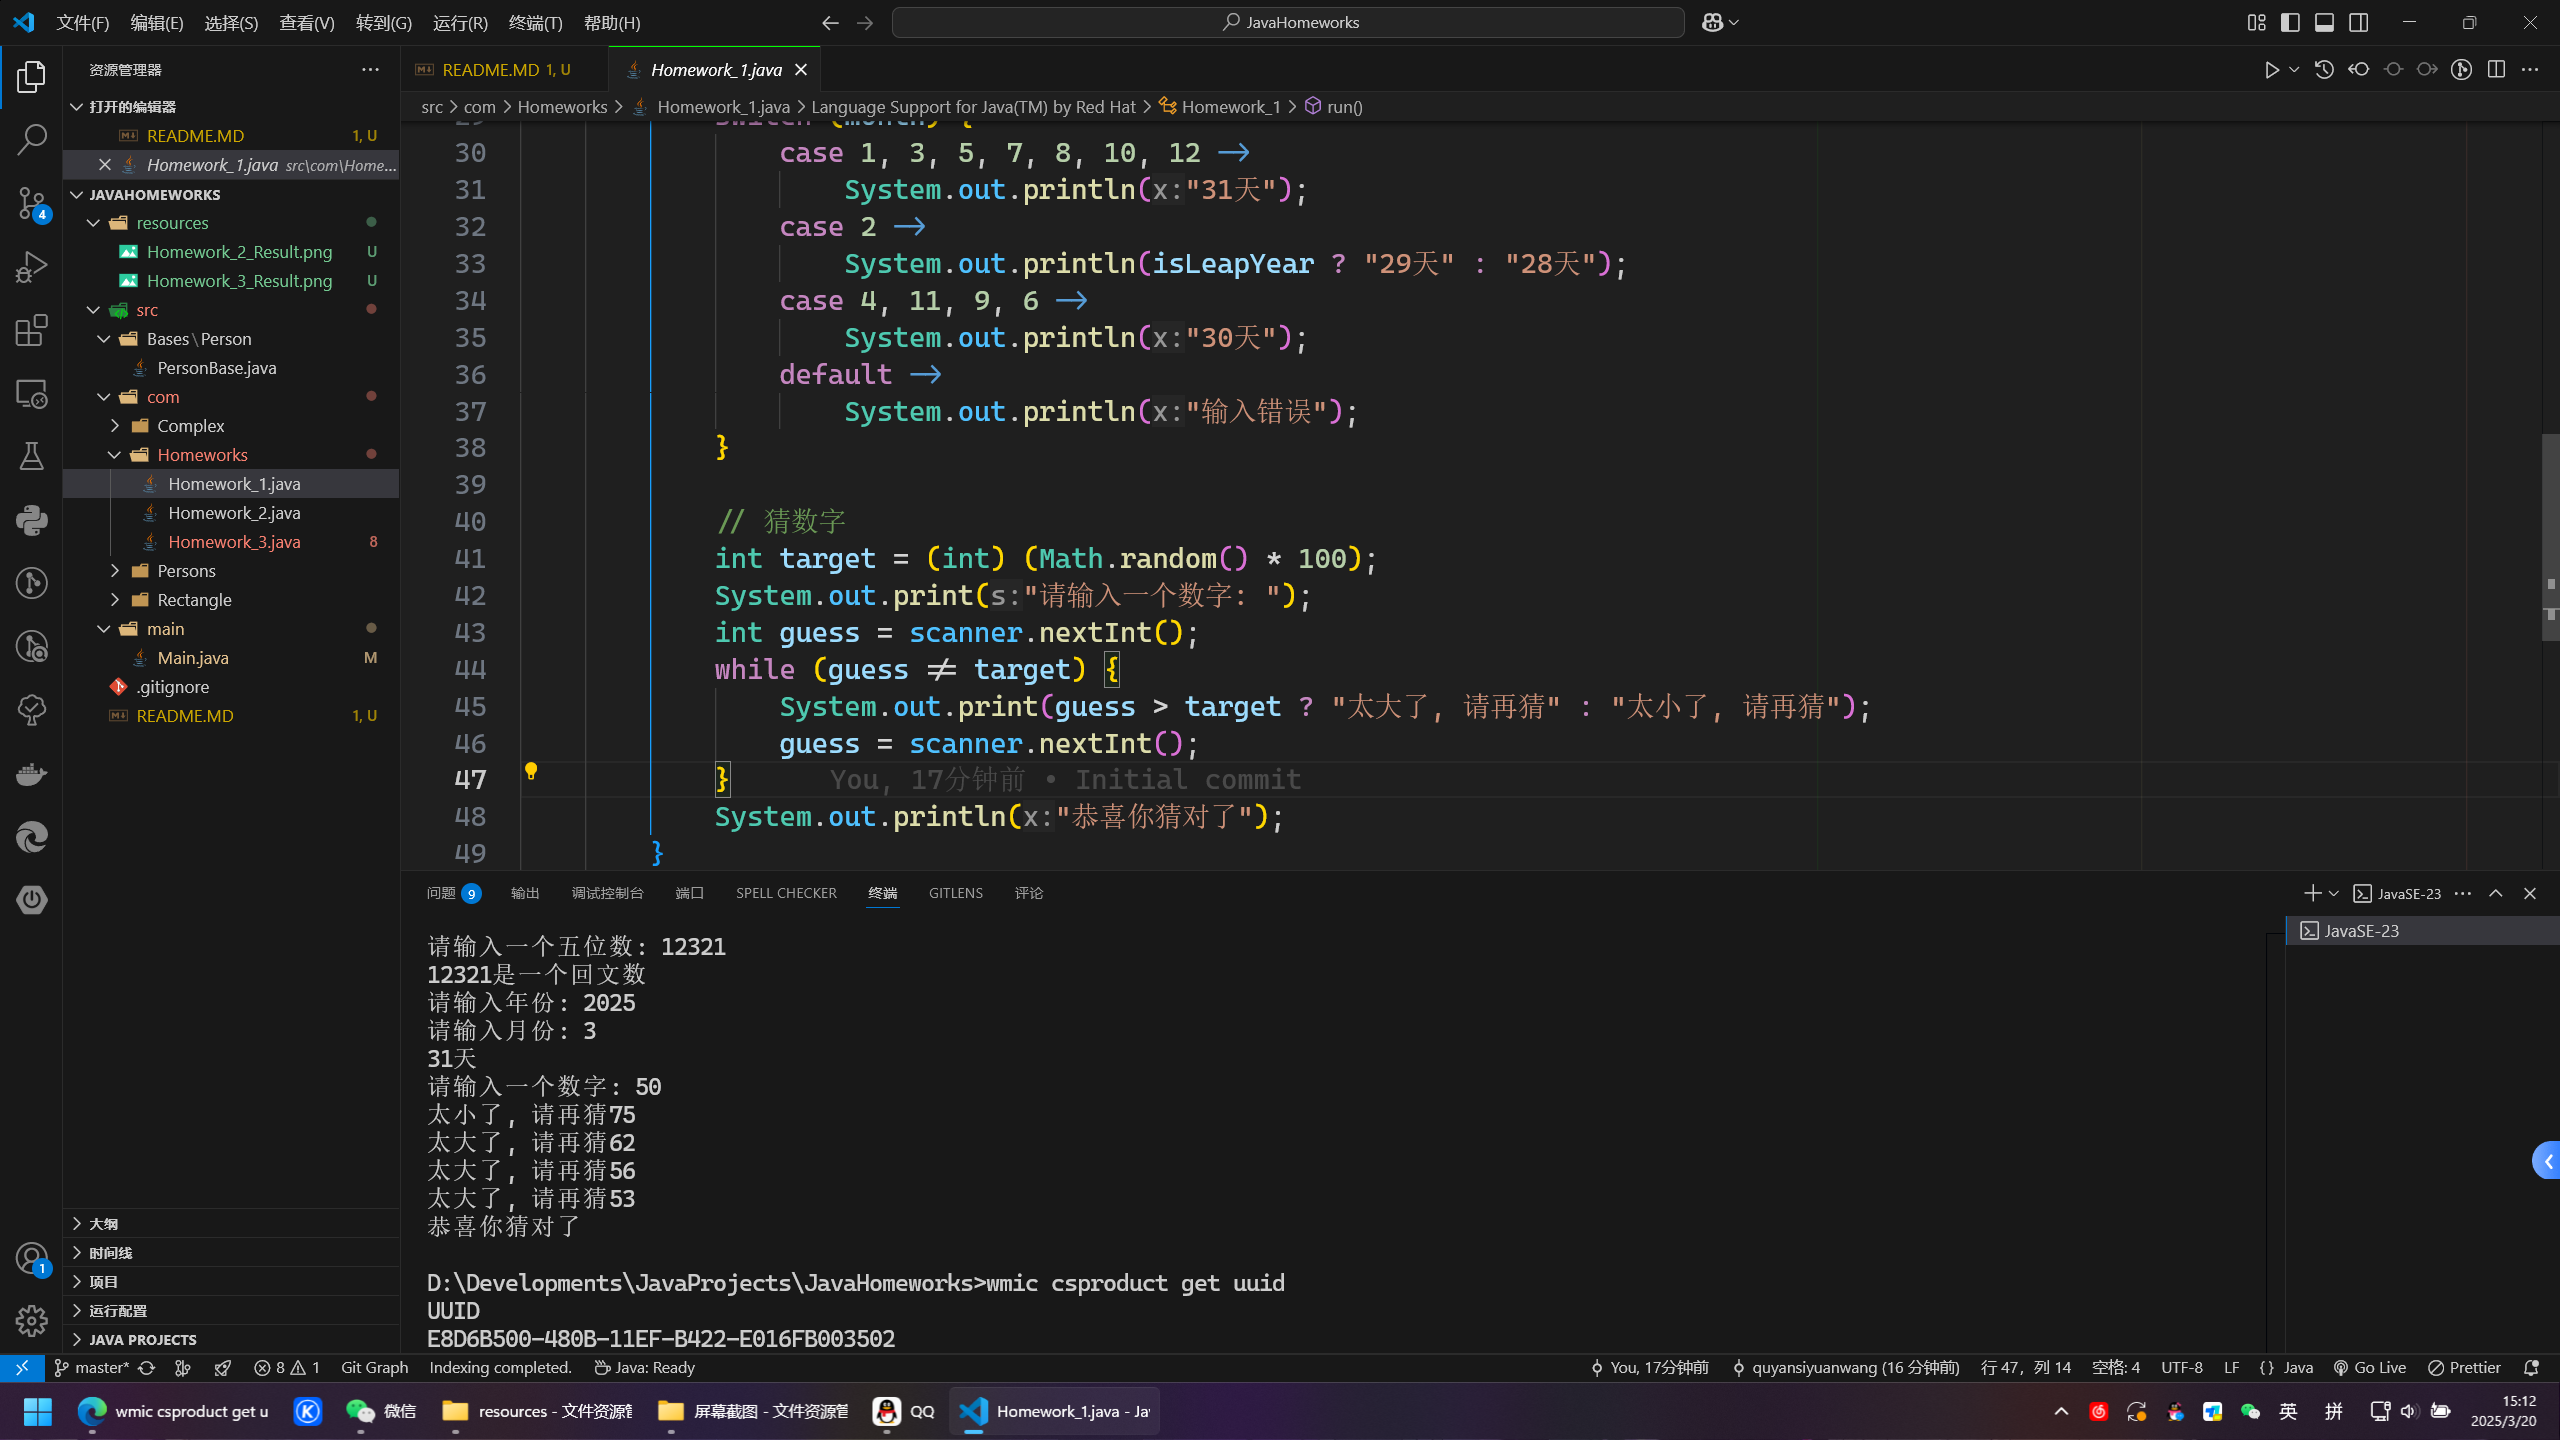
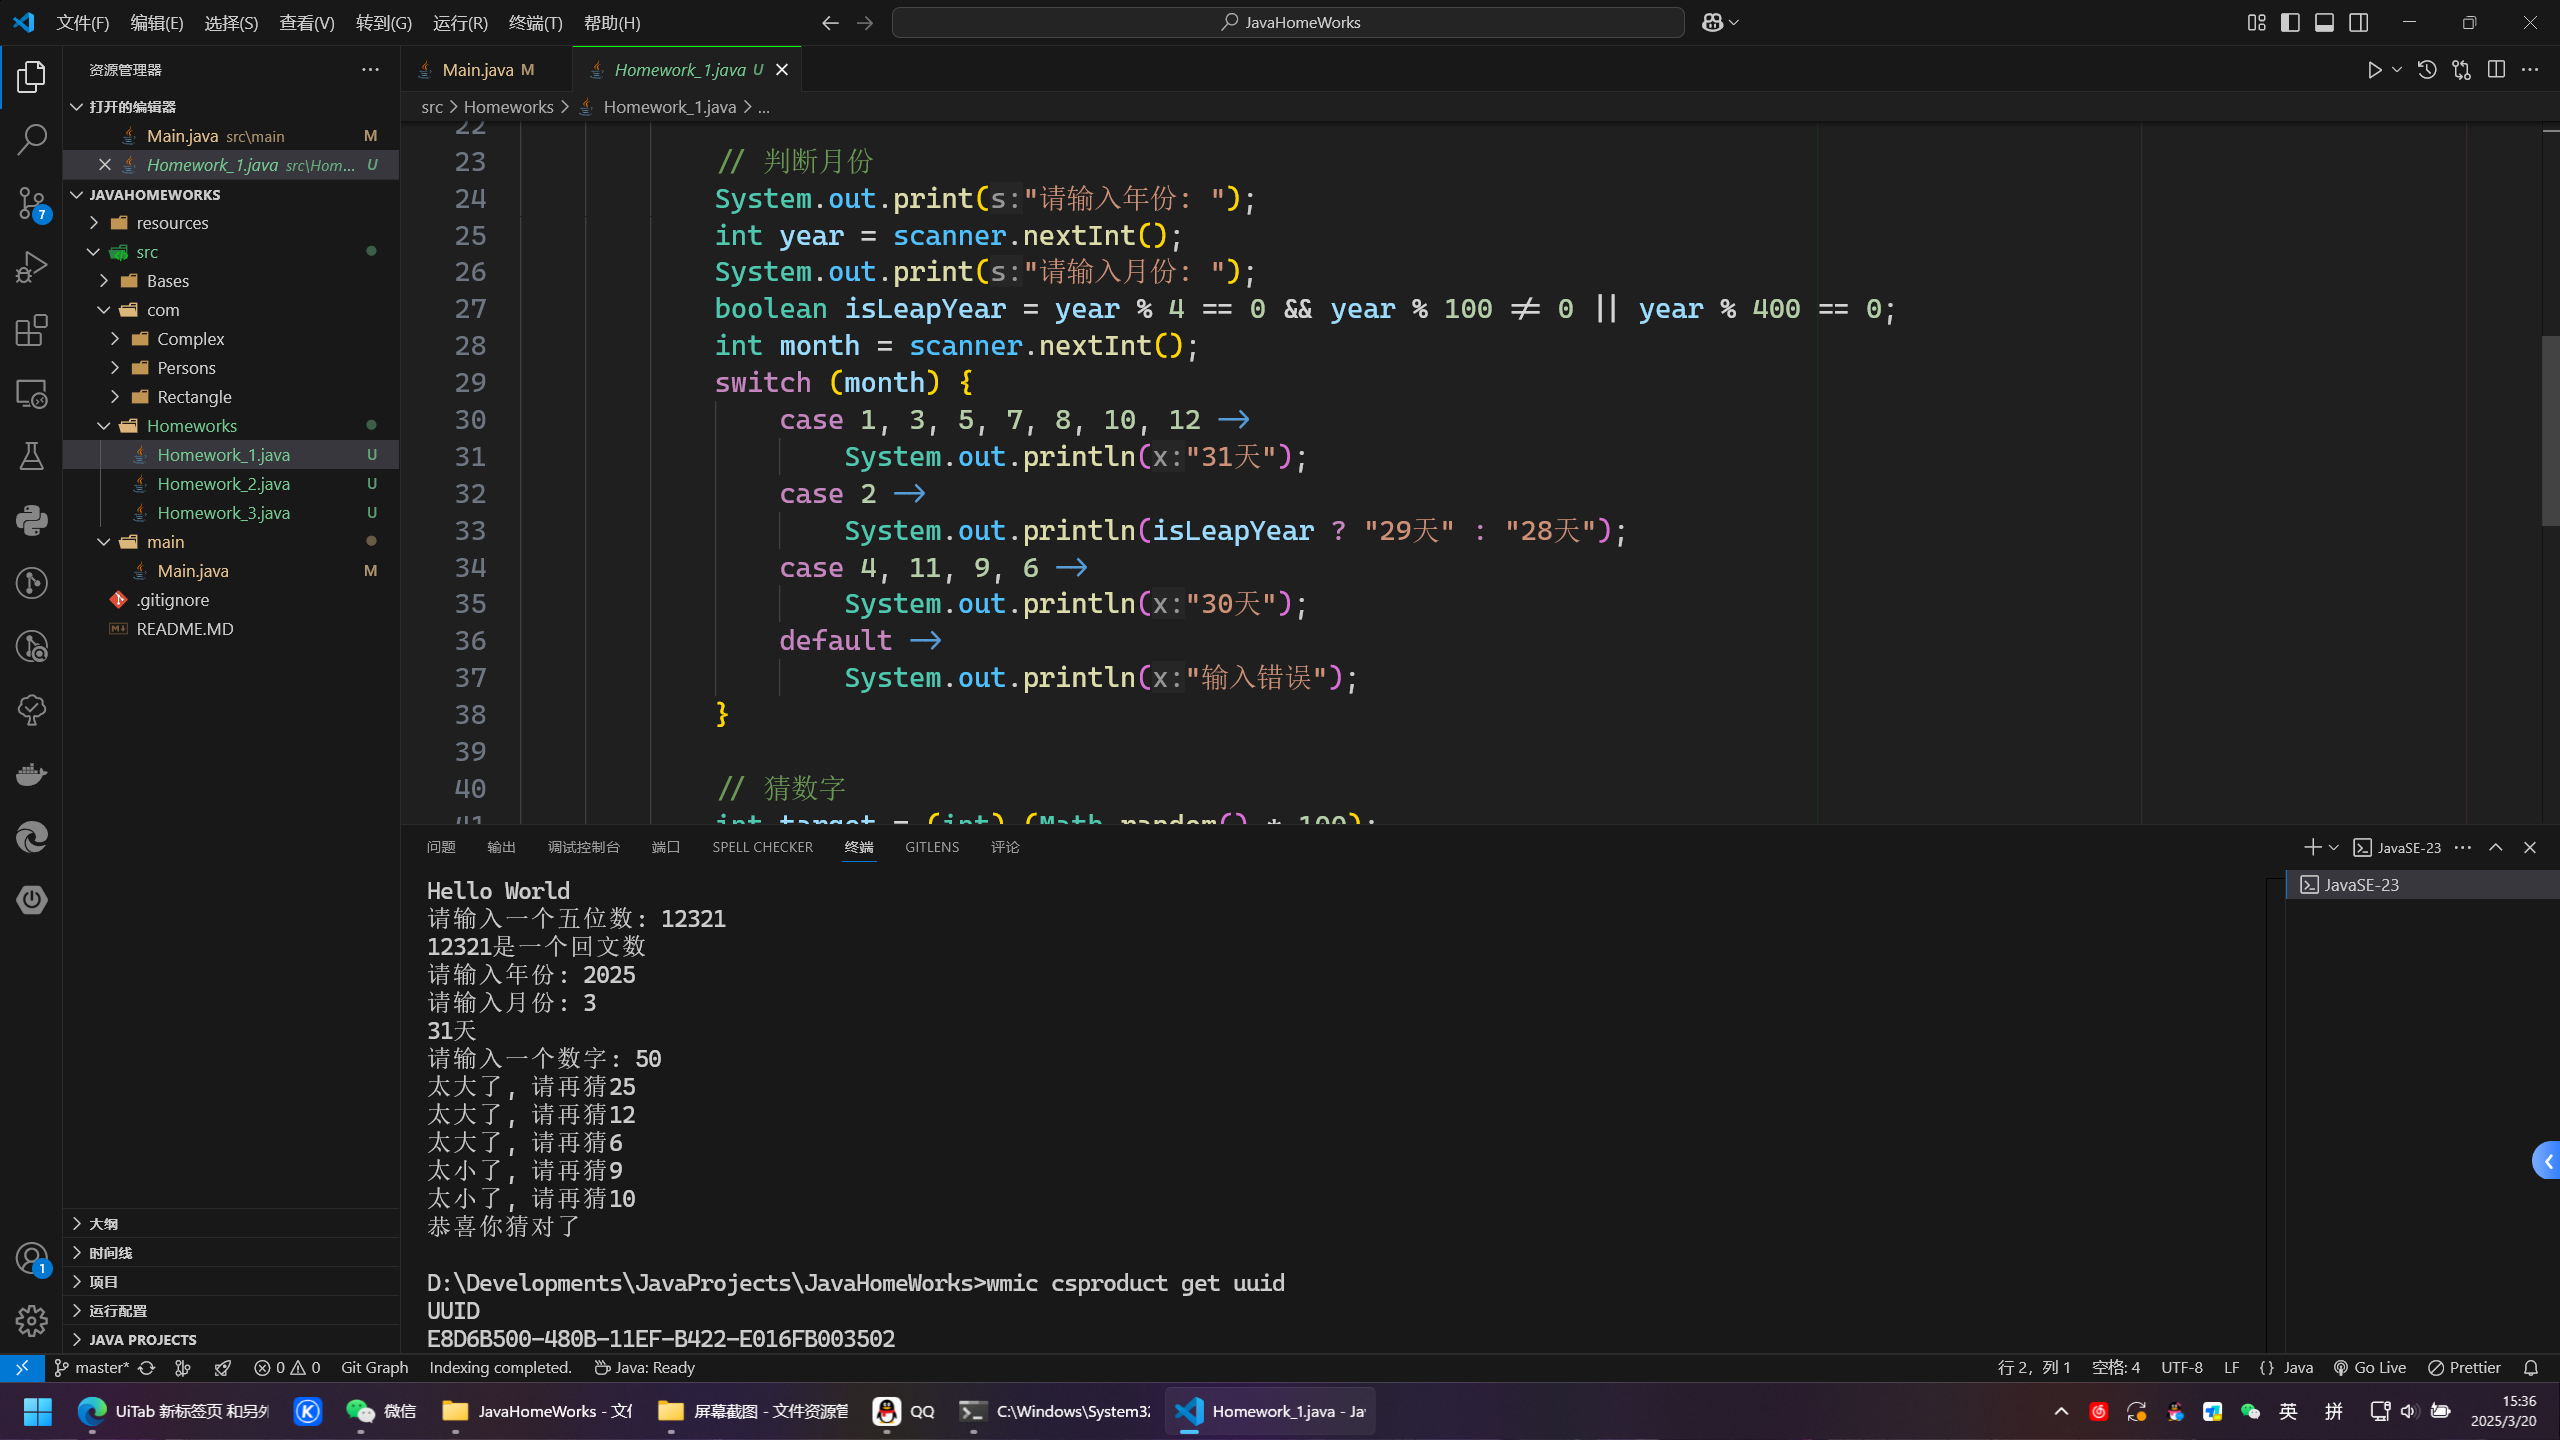
refactor:     - refactor the project structure

diff --git a/src/Homeworks/Homework_3.java b/src/Homeworks/Homework_3.java
@@ -1,4 +1,4 @@
-package com.Homeworks;
+package Homeworks;
 
 import com.Complex.Complex;
 import com.Rectangle.Rectangle;

diff --git a/src/main/Main.java b/src/main/Main.java
@@ -1,6 +1,6 @@
 package main;
 
-import com.Homeworks.Homework_3;
+import Homeworks.Homework_3;
 
 public class Main {
 

diff --git a/src/Homeworks/Homework_2.java b/src/Homeworks/Homework_2.java
@@ -1,4 +1,4 @@
-package com.Homeworks;
+package Homeworks;
 
 import com.Persons.Person;
 import com.Persons.Student;

diff --git a/src/Homeworks/Homework_1.java b/src/Homeworks/Homework_1.java
@@ -1,4 +1,4 @@
-package com.Homeworks;
+package Homeworks;
 
 import java.util.Scanner;
 

diff --git a/README.MD b/README.MD
@@ -7,7 +7,7 @@
 ## 作业说明
 
 - `src` 目录下是作业代码
-- `src/com/Homeworks` 目录下是作业运行/示例代码
+- `src/Homeworks` 目录下是作业运行/示例代码
 - `src/com` 目录下是一些类代码
 - `src/main` 目录下是`当前作业`入口代码
 - `src/Bases` 目录下是作业`基类`代码  
@@ -36,7 +36,7 @@
 ## 如何运行
 
 - 运行根目录为当前目录
-- 打开`src/main/Main.java`文件, 导入需要运行的作业代码, 例如`import com.Homeworks.Homework_1;`
+- 打开`src/main/Main.java`文件, 导入需要运行的作业代码, 例如`import Homeworks.Homework_1;`
 - 修改`Main.java`文件中的`main`方法中的调用作业代码, 例如`Homework_1.run();`
 - 运行 `cmd` 命令`java ./src/main/Main.java`以运行`Main.java`文件, 查看运行结果
 
